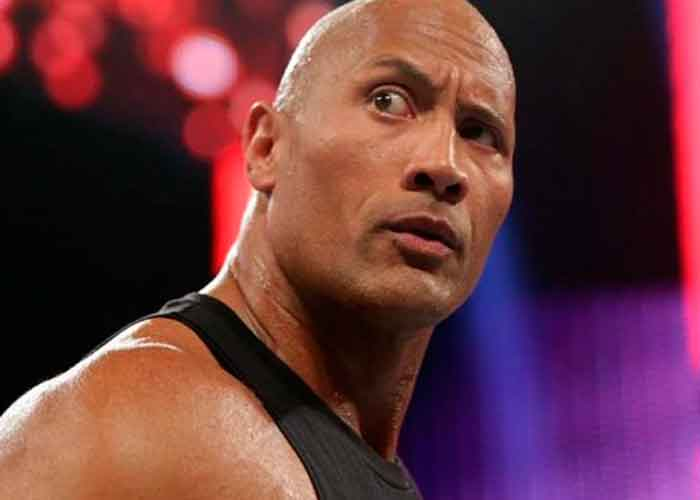
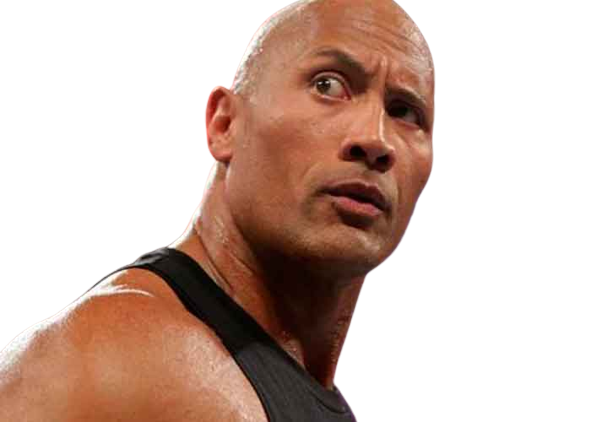
asdfghjklñ

diff --git a/RoI.html b/RoI.html
@@ -20,8 +20,8 @@
             </div>
             <nav>
                 <ul class="menu">
-                    <li> <i class="fa-solid fa-house fa-bounce" style="color: #6ba1ff;"></i><a href="index.html">Inicio</a></li>
-                    <li><a href="#QSS">Productos</a></li>
+                    <li><a href="index.html"><i class="fa-regular fa-house fa-bounce" style="color: #6ba1ff;"></i>Inicio</a></li>
+                    <li><a href="#QSS"><i class="fa-solid fa-seedling fa-bounce" style="color: #6ba1ff;"></i> Productos</a></li>
                 </ul>
             </nav>
         </header>

diff --git a/index.html b/index.html
@@ -47,12 +47,12 @@
     <article class="gale">
     <section class="gal">
 <img src="imgcar/img1.jpg" alt="imagen">
-<img src="imgcar/img2.jpg" alt="imagen">
+<img src="imgcar/img2-removebg-preview.png" alt="imagen">
 <img src="imgcar/img3.jpg" alt="imagen">
 <img src="imgcar/img4.png" alt="imagen">
 <img src="imgcar/img8.jpg" alt="imagen">
 <img src="imgcar/img6.jpg" alt="imagen">
-<img src="imgcar/img7.jpg" alt="imagen">
+<img src="imgcar/img7.png" alt="imagen">
 <img src="imgcar/img5.png" alt="imagen">
     </section>
   </article>

diff --git a/estilo.css b/estilo.css
@@ -217,6 +217,7 @@ p {
   height: 210px;
  min-height: 50px;
  min-width: 100px;
+ border-radius: 5px;
 }
 
 .card .contenido {
